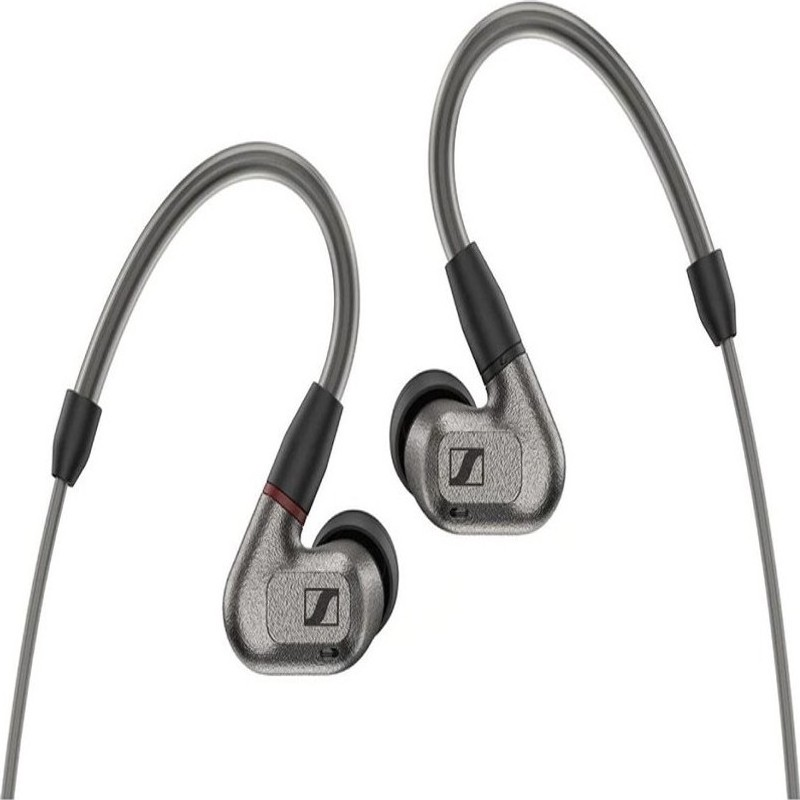
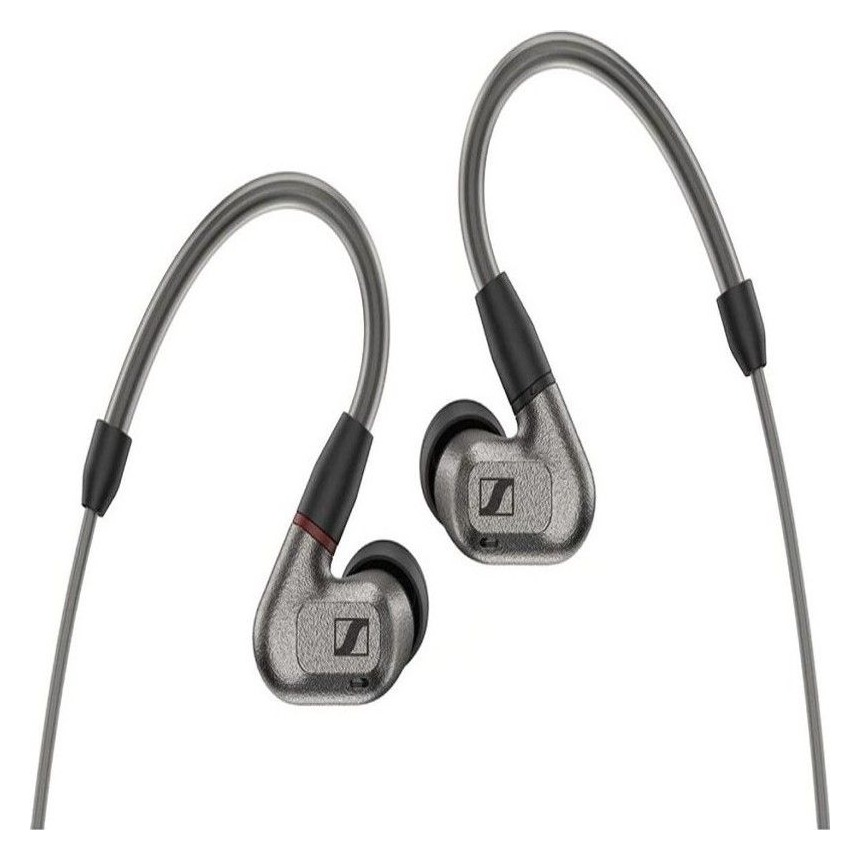
Use proportional contain fill for SoundShoppie product card images.

Changed region(s): [[0.0, 0.0, 1.0, 1.0]]

diff --git a/doomsday/soundshoppie/index.html b/doomsday/soundshoppie/index.html
@@ -197,7 +197,7 @@
         height: 100% !important;
         max-width: none !important;
         max-height: none !important;
-        object-fit: cover !important; /* fill box, keep proportions â€” no stretch */
+        object-fit: contain !important; /* keep aspect; never stretch or crop */
         object-position: center center !important;
         background: #fff !important;
         padding: 0 !important;
@@ -468,76 +468,76 @@
         <div class="card-deck d-flex justify-content-center align-items-stretch flex-wrap">
           <div class="product-card m-2">
             <div class="image-container">
-              <img class="card-img-top" src="./products/wh-1000xm.jpg?v=3" alt="Sony WH-1000XM4" />
+              <img class="card-img-top" src="./products/=4" alt="Sony WH-1000… />
             </div>
             <div class="card-body">
-              <h5 class="card-title">WH-1000â€¦</h5>
+              <h5 class="card-title">WH-1000…</h5>
               <div class="card-price"><span class="category-name truncate">Headphones</span></div>
               <div class="card-rating">
                 <span class="fa fa-star"></span><span class="fa fa-star"></span><span class="fa fa-star"></span>
                 <span class="fa fa-star"></span><span class="fa fa-star-o"></span>
               </div>
-              <div class="card-price">â‚¹24990</div>
+              <div class="card-price">₹24990</div>
               <a href="#products" class="card-details-btn">Product Details</a>
             </div>
           </div>
           <div class="product-card m-2">
             <div class="image-container">
-              <img class="card-img-top" src="./products/qc45.jpg?v=3" alt="Bose QuietComfort 45" />
+              <img class="card-img-top" src="./products/=4" alt="Bose QuietComfort 45" />
             </div>
             <div class="card-body">
-              <h5 class="card-title">QC45â€¦</h5>
+              <h5 class="card-title">QC45…</h5>
               <div class="card-price"><span class="category-name truncate">Headphones</span></div>
               <div class="card-rating">
                 <span class="fa fa-star"></span><span class="fa fa-star"></span><span class="fa fa-star"></span>
                 <span class="fa fa-star"></span><span class="fa fa-star"></span>
               </div>
-              <div class="card-price">â‚¹28990</div>
+              <div class="card-price">₹28990</div>
               <a href="#products" class="card-details-btn">Product Details</a>
             </div>
           </div>
           <div class="product-card m-2">
             <div class="image-container">
-              <img class="card-img-top" src="./products/ie-600.jpg?v=3" alt="Sennheiser IE 600" />
+              <img class="card-img-top" src="./products/=4" alt="Sennheiser IE 600… />
             </div>
             <div class="card-body">
-              <h5 class="card-title">IE 600â€¦</h5>
+              <h5 class="card-title">IE 600…</h5>
               <div class="card-price"><span class="category-name truncate">IEMs</span></div>
               <div class="card-rating">
                 <span class="fa fa-star"></span><span class="fa fa-star"></span><span class="fa fa-star"></span>
                 <span class="fa fa-star"></span><span class="fa fa-star-o"></span>
               </div>
-              <div class="card-price">â‚¹54990</div>
+              <div class="card-price">₹54990</div>
               <a href="#products" class="card-details-btn">Product Details</a>
             </div>
           </div>
           <div class="product-card m-2">
             <div class="image-container">
-              <img class="card-img-top" src="./products/ath-m50.jpg?v=3" alt="Audio-Technica ATH-M50x" />
+              <img class="card-img-top" src="./products/=4" alt="Audio-Technica ATH-M50… />
             </div>
             <div class="card-body">
-              <h5 class="card-title">ATH-M50â€¦</h5>
+              <h5 class="card-title">ATH-M50…</h5>
               <div class="card-price"><span class="category-name truncate">Studio</span></div>
               <div class="card-rating">
                 <span class="fa fa-star"></span><span class="fa fa-star"></span><span class="fa fa-star"></span>
                 <span class="fa fa-star"></span><span class="fa fa-star-o"></span>
               </div>
-              <div class="card-price">â‚¹14990</div>
+              <div class="card-price">₹14990</div>
               <a href="#products" class="card-details-btn">Product Details</a>
             </div>
           </div>
           <div class="product-card m-2">
             <div class="image-container">
-              <img class="card-img-top" src="./products/tune-760.jpg?v=3" alt="JBL Tune 760NC" />
+              <img class="card-img-top" src="./products/=4" alt="JBL Tune 760… />
             </div>
             <div class="card-body">
-              <h5 class="card-title">Tune 760â€¦</h5>
+              <h5 class="card-title">Tune 760…</h5>
               <div class="card-price"><span class="category-name truncate">Wireless</span></div>
               <div class="card-rating">
                 <span class="fa fa-star"></span><span class="fa fa-star"></span><span class="fa fa-star"></span>
                 <span class="fa fa-star-o"></span><span class="fa fa-star-o"></span>
               </div>
-              <div class="card-price">â‚¹7990</div>
+              <div class="card-price">₹7990</div>
               <a href="#products" class="card-details-btn">Product Details</a>
             </div>
           </div>
@@ -546,48 +546,48 @@
               <span class="badge rounded-pill badge-notification bg-danger">
                 <div><div class="m-1">15 %</div><div class="m-1">off</div></div>
               </span>
-              <img class="card-img-top" src="./products/wf-1000.jpg?v=3" alt="Sony WF-1000XM4" width="800" height="800" />
+              <img class="card-img-top" src="./products/=4" alt="Sony WF-1000… width="800" height="800" />
             </div>
             <div class="card-body">
-              <h5 class="card-title">WF-1000â€¦</h5>
+              <h5 class="card-title">WF-1000…</h5>
               <div class="card-price"><span class="category-name truncate">Earbuds</span></div>
               <div class="card-rating">
                 <span class="fa fa-star"></span><span class="fa fa-star"></span><span class="fa fa-star"></span>
                 <span class="fa fa-star"></span><span class="fa fa-star-o"></span>
               </div>
-              <div class="card-price">â‚¹16990</div>
-              <del>â‚¹19990</del>
+              <div class="card-price">₹16990</div>
+              <del>₹19990</del>
               <a href="#products" class="card-details-btn">Product Details</a>
             </div>
           </div>
           <div class="product-card m-2">
             <div class="image-container">
-              <img class="card-img-top" src="./products/t5-ii.jpg?v=3" alt="Klipsch T5 II" />
+              <img class="card-img-top" src="./products/=4" alt="Klipsch T5 II… />
             </div>
             <div class="card-body">
-              <h5 class="card-title">T5 IIâ€¦</h5>
+              <h5 class="card-title">T5 II…</h5>
               <div class="card-price"><span class="category-name truncate">True wireless</span></div>
               <div class="card-rating">
                 <span class="fa fa-star"></span><span class="fa fa-star"></span><span class="fa fa-star"></span>
                 <span class="fa fa-star"></span><span class="fa fa-star-o"></span>
               </div>
-              <div class="card-price">â‚¹12990</div>
+              <div class="card-price">₹12990</div>
               <a href="#products" class="card-details-btn">Product Details</a>
             </div>
           </div>
           <div class="product-card m-2">
             <div class="image-container">
               <div class="overlay"><p class="overlay-text">Out of Stock</p></div>
-              <img class="card-img-top" src="./products/hd-660.jpg?v=3" alt="Sennheiser HD 660S2" />
+              <img class="card-img-top" src="./products/=4" alt="Sennheiser HD 660… />
             </div>
             <div class="card-body">
-              <h5 class="card-title">HD 660â€¦</h5>
+              <h5 class="card-title">HD 660…</h5>
               <div class="card-price"><span class="category-name truncate">Open-back</span></div>
               <div class="card-rating">
                 <span class="fa fa-star"></span><span class="fa fa-star"></span><span class="fa fa-star"></span>
                 <span class="fa fa-star"></span><span class="fa fa-star"></span>
               </div>
-              <div class="card-price">â‚¹39990</div>
+              <div class="card-price">₹39990</div>
               <a href="#products" class="card-details-btn">Product Details</a>
             </div>
           </div>
